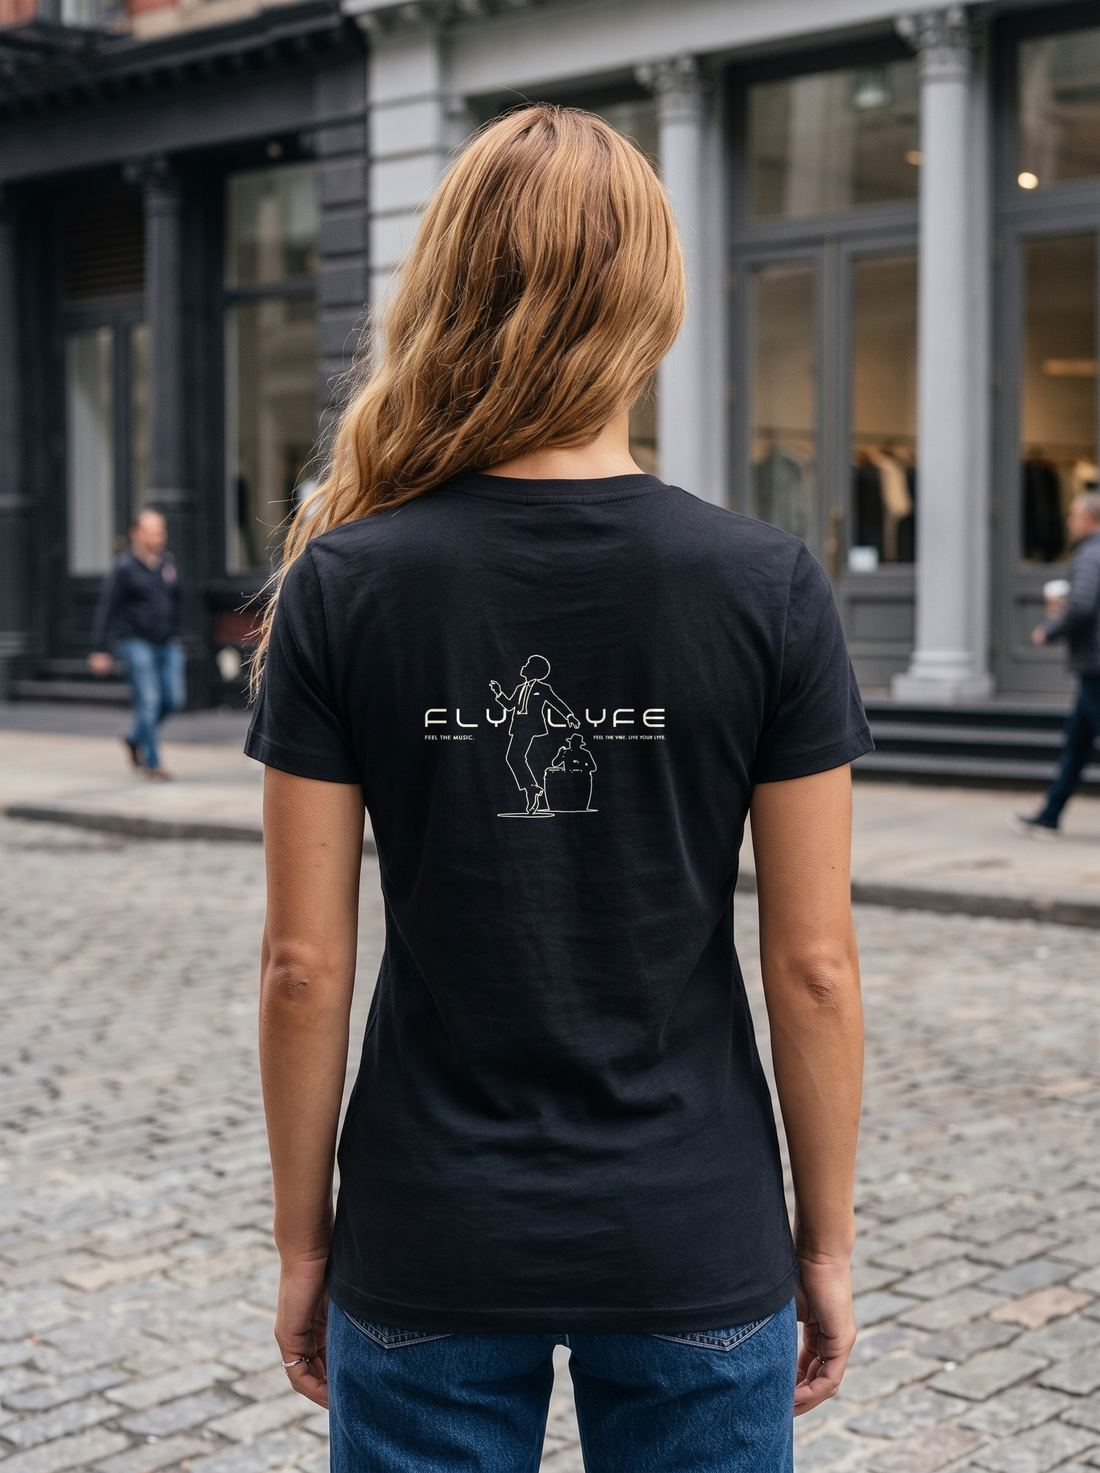
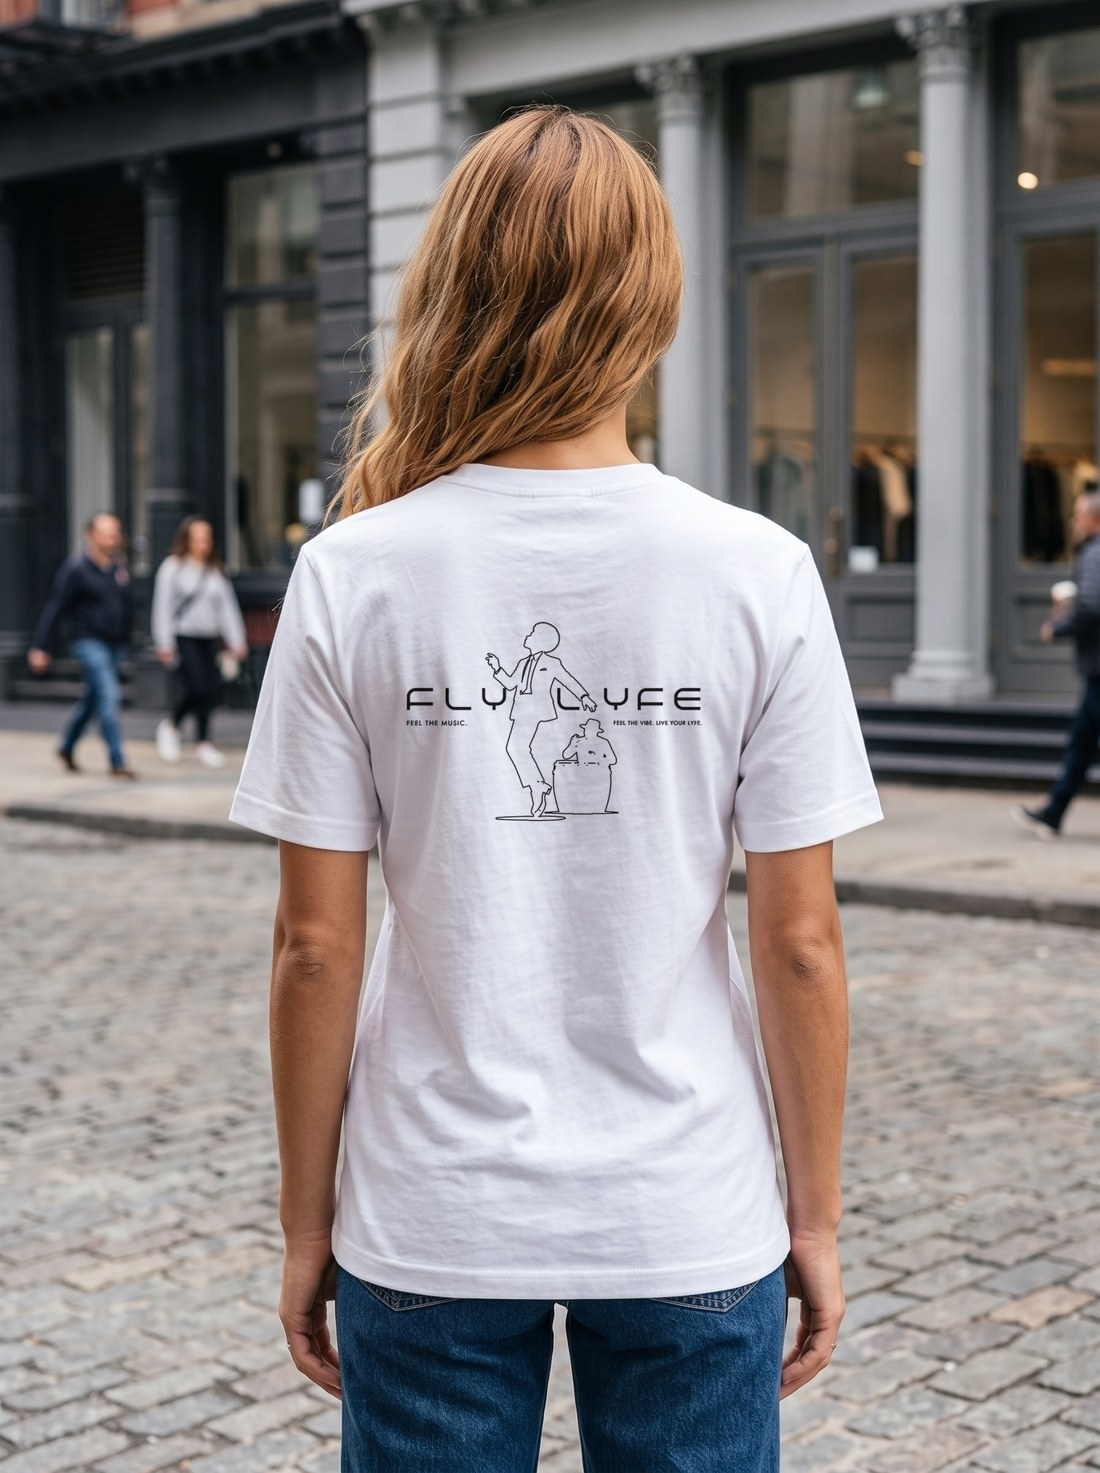
Fix women's Conga tee image: outline dancer + larger back print
Rebuild women's Conga mockups (White/Black/Natural) with the outline dancer
art instead of the old solid-fill version, so it matches the men's tee, and
enlarge the back print (0.66 -> 0.84). Regenerates products-model jpg+webp
and the products-seo card hero.

diff --git a/tools/product-pipeline/recompose_all.py b/tools/product-pipeline/recompose_all.py
@@ -48,7 +48,7 @@ DESIGNS={
  "the-house-music-tee":  ("male",["White","Black","Ivory"], F(HMF,0.68,0.45), F(HMB,0.72,0.50,0.03)),
  "the-token-tee":        ("male",["White","Black","Ivory"], F(TOKF,0.42,0.43), F(TOKB,0.80,0.50,0.0,"emblem","emblem")),
  "the-anthem-tee-womens":   ("female",["White","Black","Natural"], W_WORD_F, F(FEEL,0.64,0.51,0.03)),
- "the-conga-tee-womens":    ("female",["White","Black","Natural"], W_WORD_F, F(CONGA,0.66,0.50)),
+ "the-conga-tee-womens":    ("female",["White","Black","Natural"], W_WORD_F, F(CONGA,0.84,0.49)),
  "the-signature-tee-womens":("female",["White","Black","Natural"], F(WORD,0.24,0.42,-0.20,lc=True), F(SIGLOCK,0.78,0.48)),
  "the-after-hours-tee":  ("male",["Black"], M_WORD_F, F(AFTERH,0.74,0.50)),
  "the-tempo-tee":        ("male",["Black"], M_WORD_F, F(TEMPO,0.74,0.50)),
